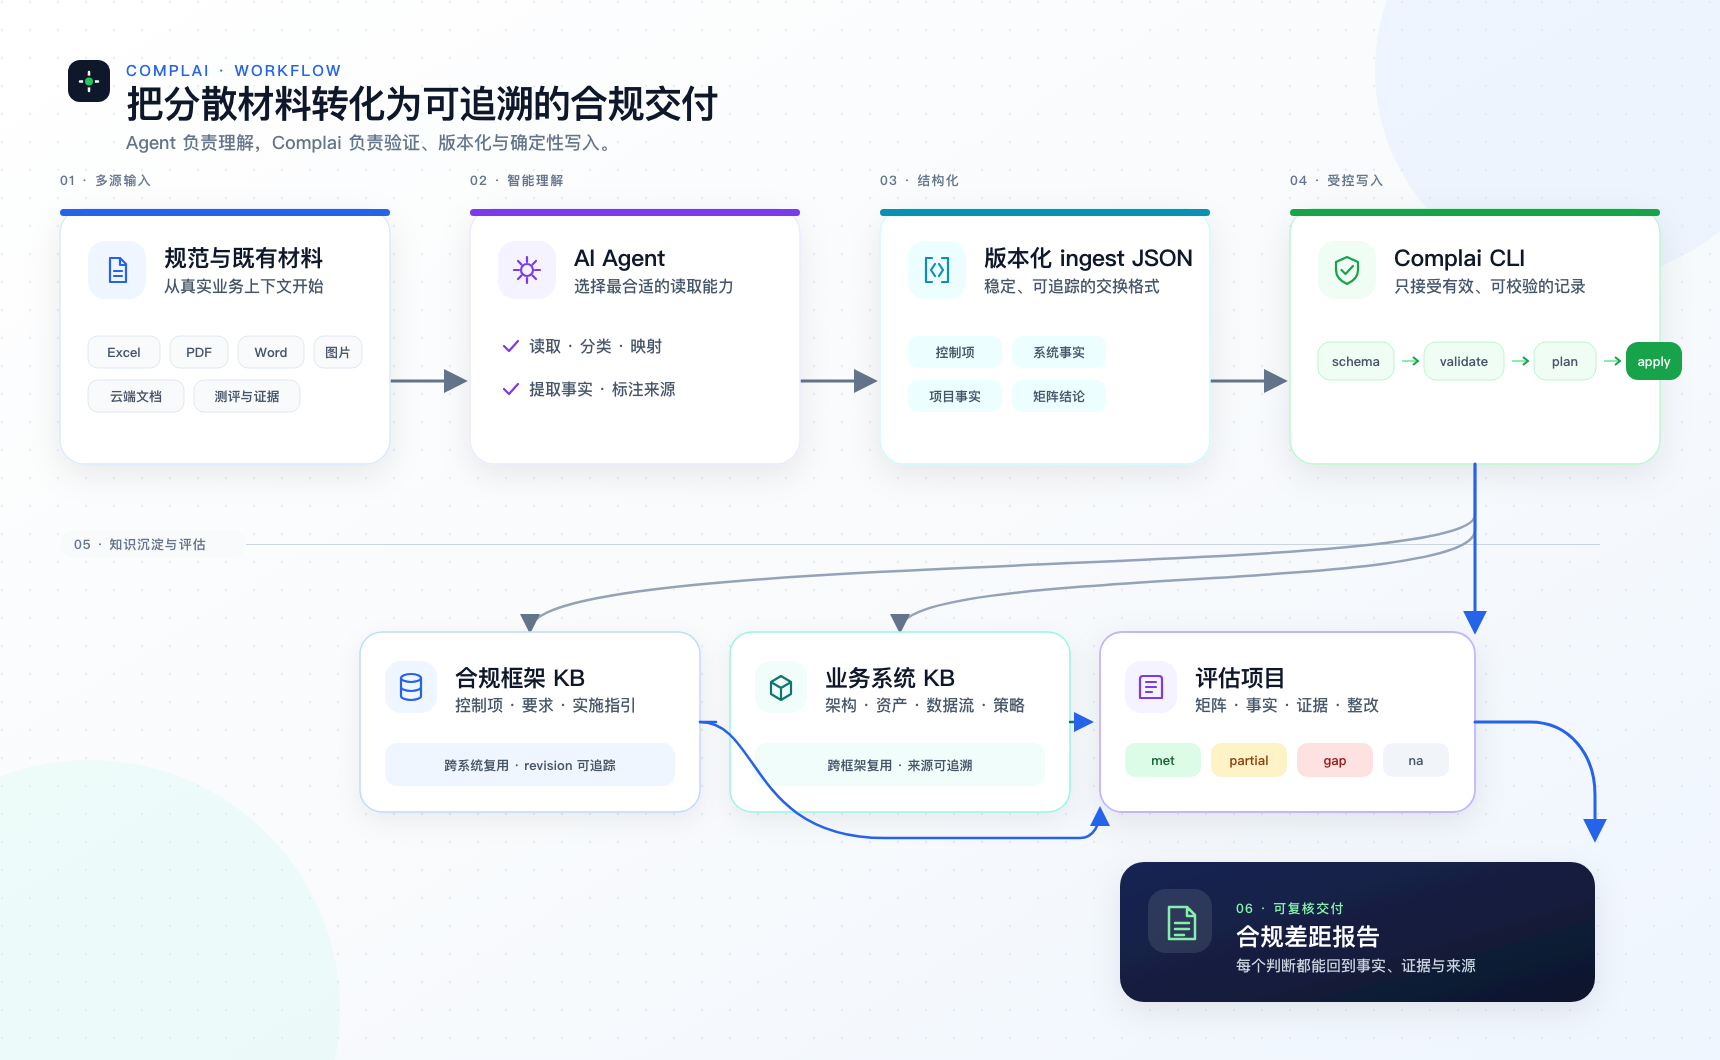
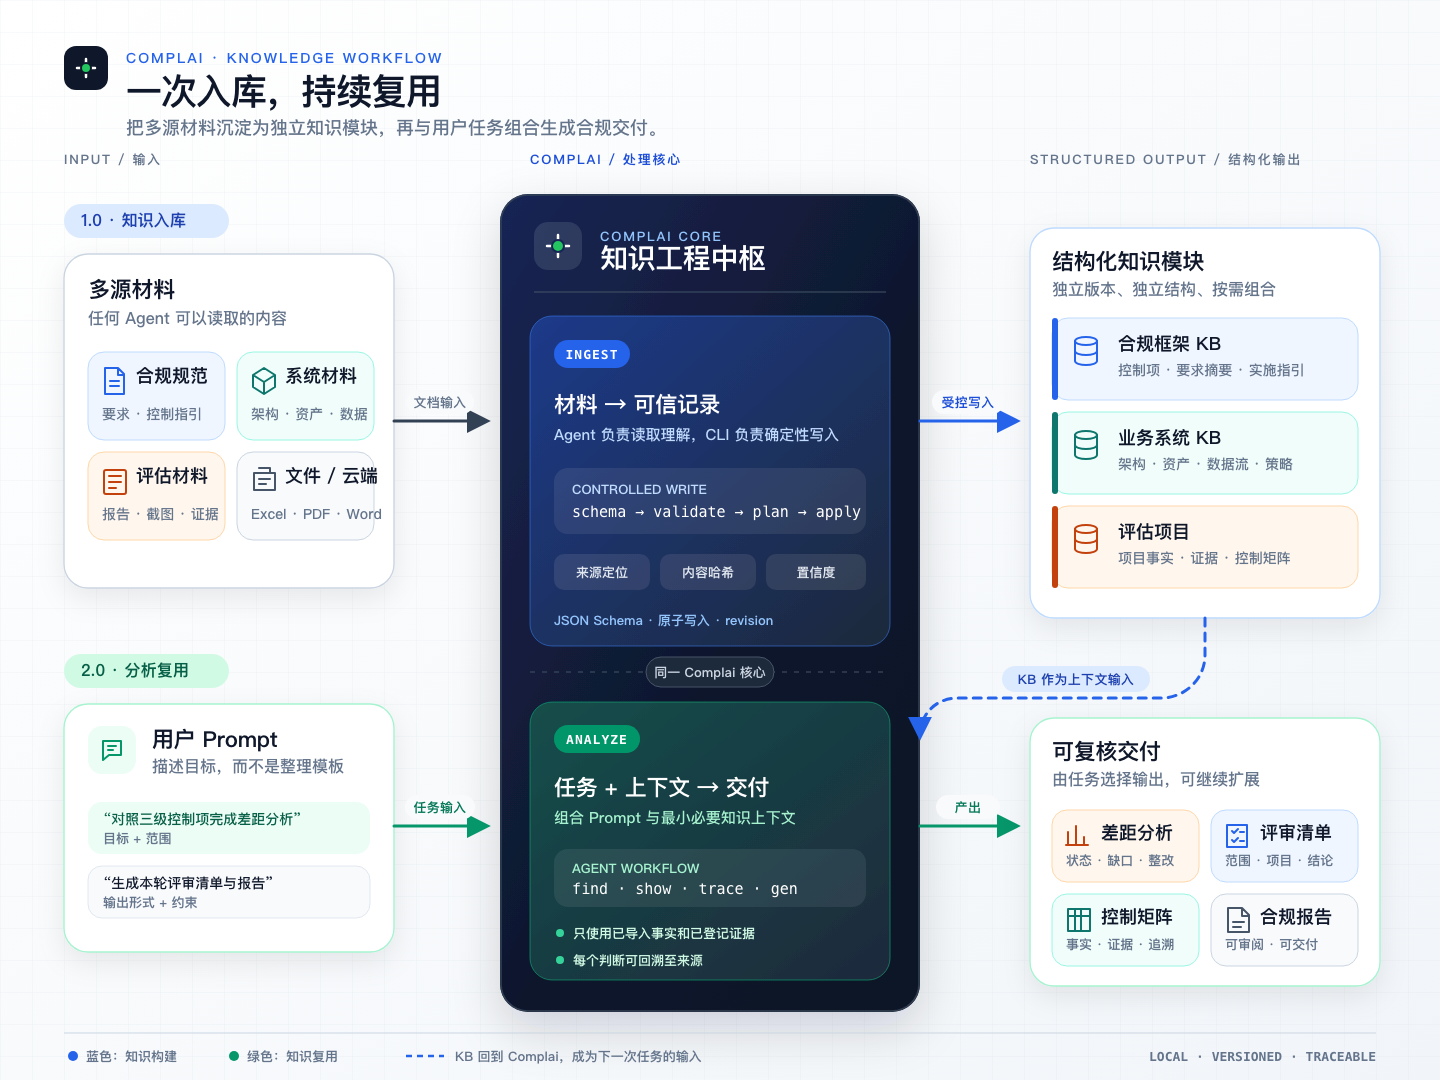
docs: refine README knowledge workflow
Reframe the diagram around a central Complai core with explicit input and output modules. Show knowledge bases returning as reusable context alongside user prompts so the two-stage workflow remains readable without dense branching.

diff --git a/README.md b/README.md
@@ -61,7 +61,7 @@ Complai 负责稳定的数据模型、严格的写入边界、来源追踪和确
 
 ## 工作原理
 
-![Complai 合规工程闭环：从规范和既有材料，经 AI Agent、版本化 ingest JSON 与 Complai CLI，沉淀至知识库和评估项目并生成差距报告](docs/assets/complai-workflow.png)
+![Complai 模块化知识工作流：多源材料经 Complai 受控写入独立知识模块，知识模块再与用户 Prompt 组合，生成差距分析、评审清单、控制矩阵和合规报告](docs/assets/complai-workflow.png)
 
 Agent 可以针对不同来源选择最合适的读取能力；Complai 只接受符合当前 JSON Schema、
 且目标系统、项目、框架和控制项均有效的结构化记录。
